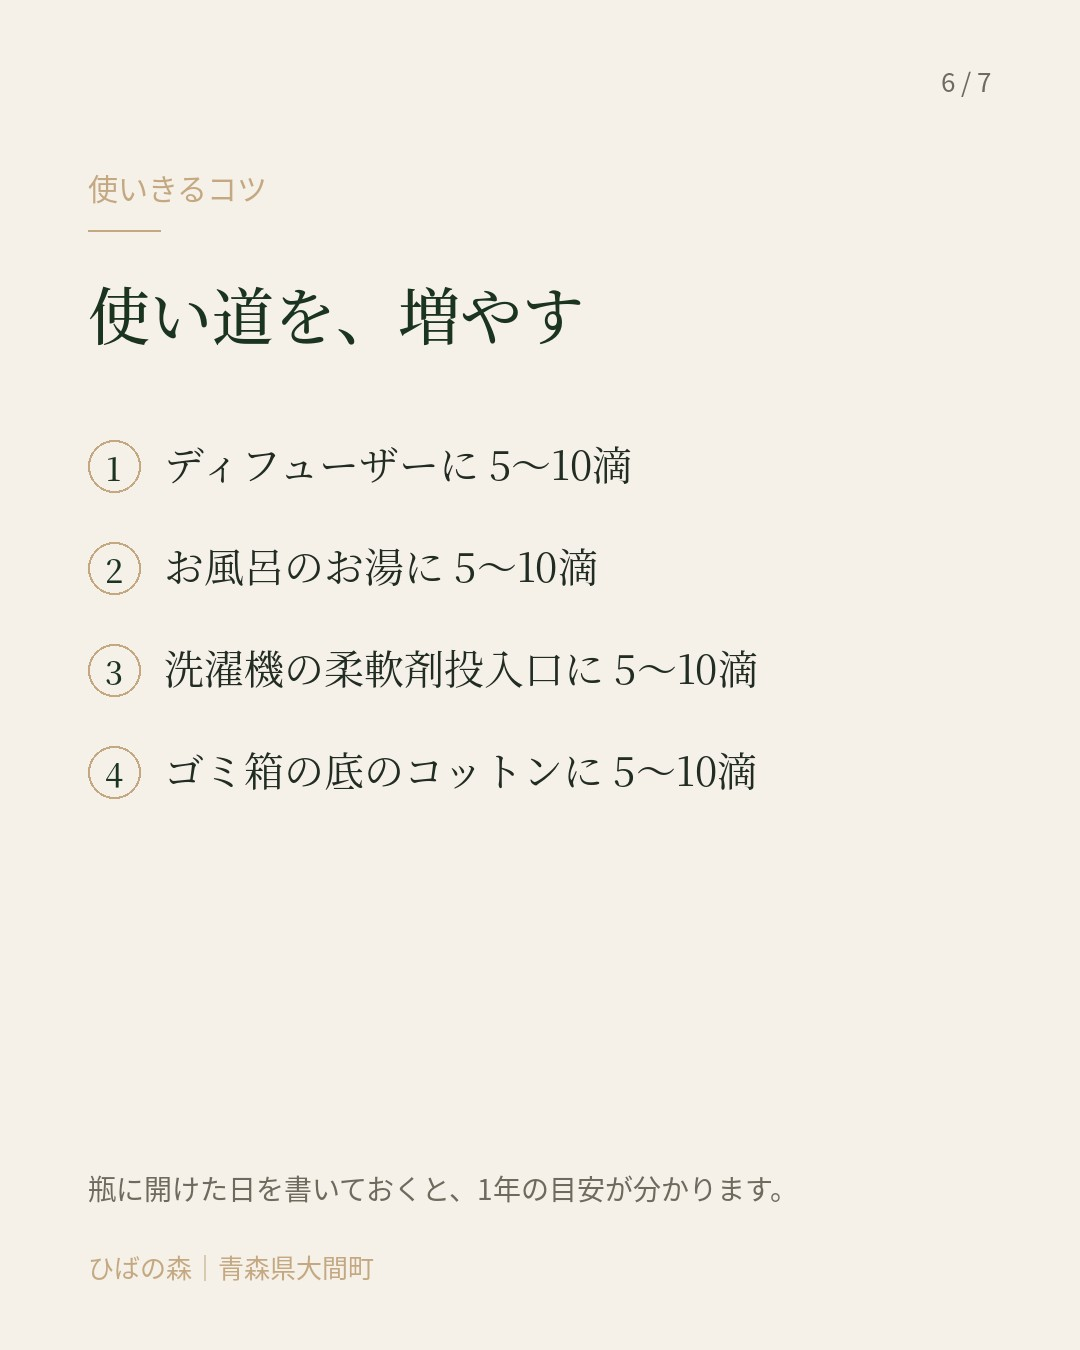
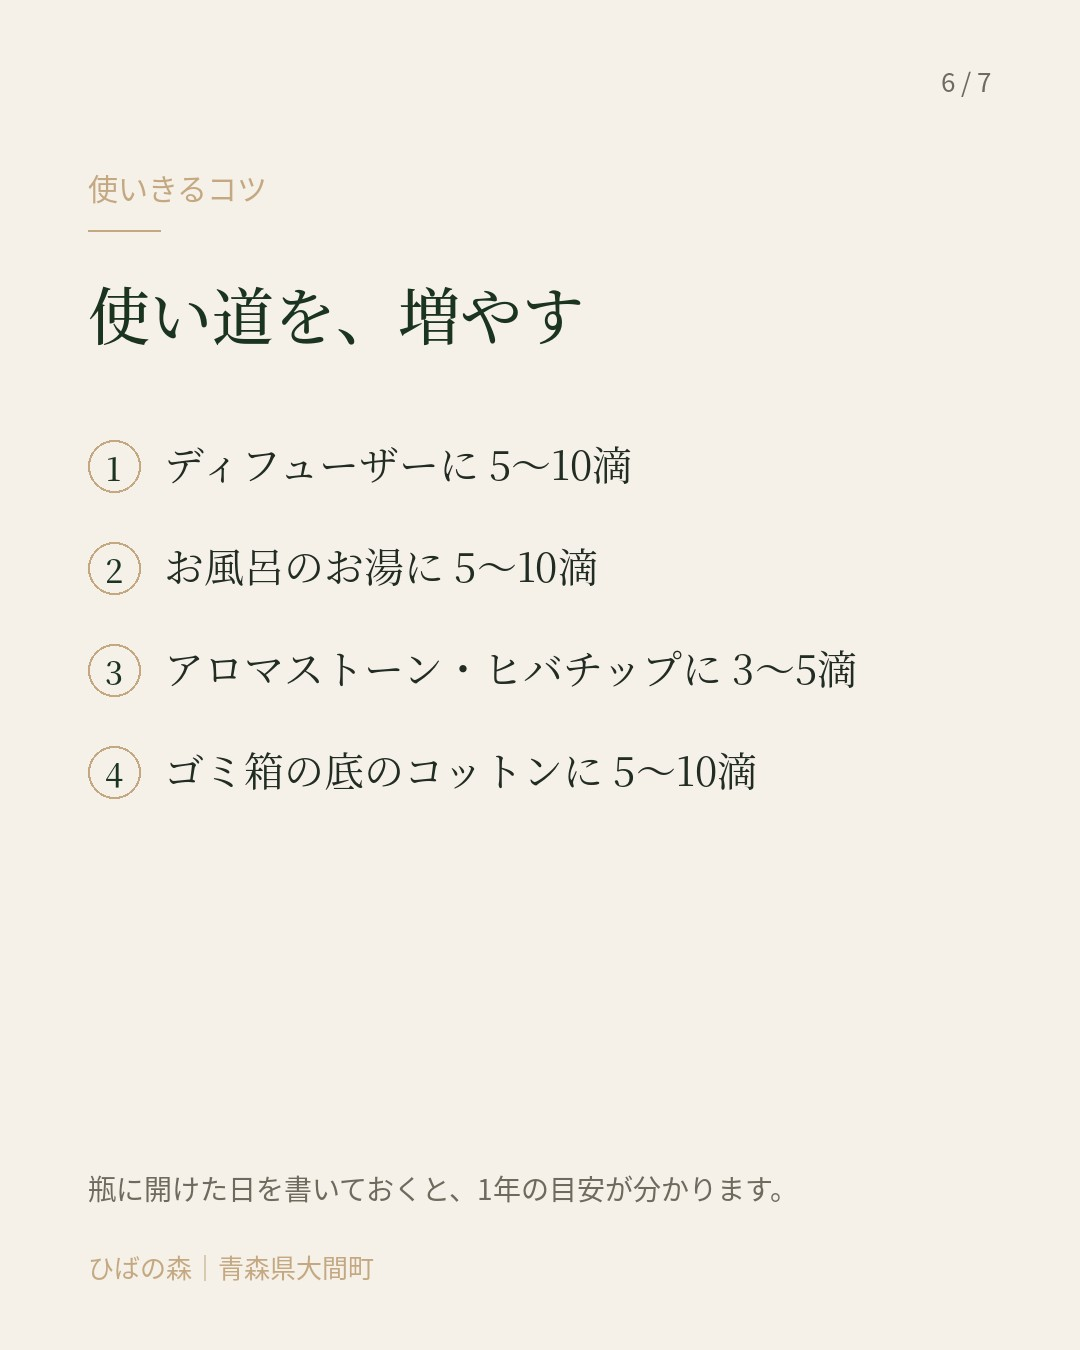
洗濯への精油使用を撤回：10/13投稿を取り下げ扱い、10/25・10/31の洗濯の記述を修正（画像再生成）、10/26にヒバ水版の洗濯投稿を追加

Changed region(s): [[0.1528, 0.4667, 0.55, 0.5289], [0.5806, 0.4667, 0.7028, 0.5289], [0.7333, 0.4667, 0.7944, 0.5289]]

diff --git a/EXPERIMENTS.md b/EXPERIMENTS.md
@@ -50,7 +50,7 @@ AR型の書き方：ヒバ以外の精油でも効能（リラックス・抗菌
 | 公開日 | 型 | 投稿 | 閲覧数 | リーチ | いいね | 保存 | シェア | フォロー |
 |---|---|---|---|---|---|---|---|---|
 | 10/12 | O-photo | マグロの町で、木の仕事をしています | 407 | 212 | 8 | 0 | 0 | 4 |
-| 10/13 | U-photo | いつもの洗濯に、森の香りを足す | 76 | 25 | 3 | 0 | 0 | 0 |
+| 10/13 | U-photo | いつもの洗濯に、森の香りを足す（10/22取り下げ：精油の洗濯使用は油じみ・引火性のため撤回、10/26にヒバ水版） | 76 | 25 | 3 | 0 | 0 | 0 |
 | 10/14 | K-text | 精油とアロマオイル、同じもの？ | 64 | 21 | 2 | 0 | 0 | 0 |
 | 10/15 | U-photo | 木の湯船じゃなくても、湯を木の香りに | 34 | 15 | 1 | 0 | 0 | 0 |
 
